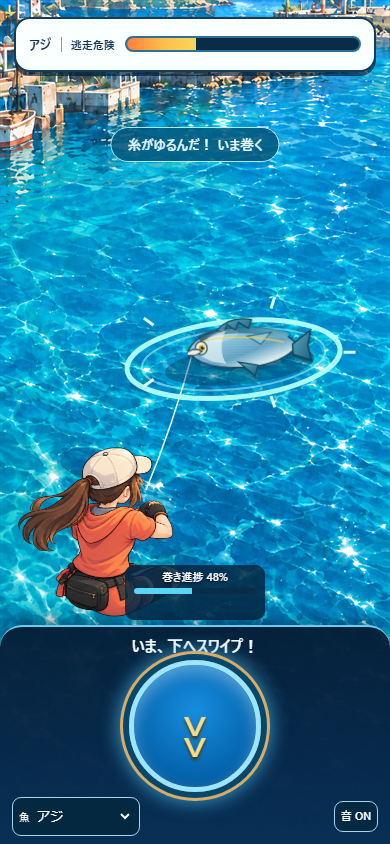
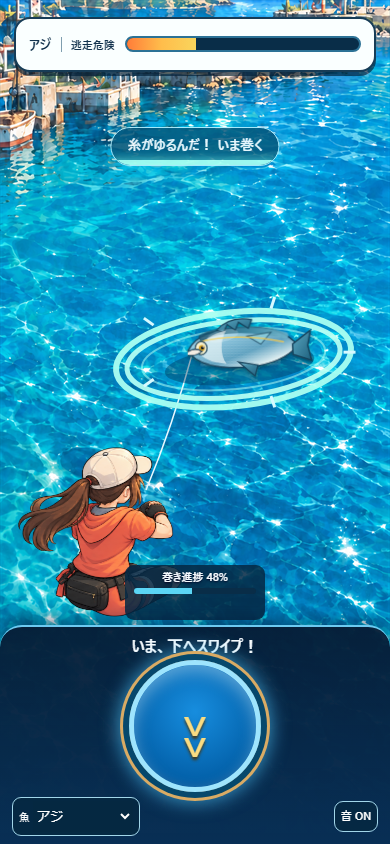
Show the real warning and reel opening timing

diff --git a/fishing-battle/game.js b/fishing-battle/game.js
@@ -1,6 +1,6 @@
 import { FISH, battleCue, createBattle, reelBattle, stepBattle } from './core.js';
 import { BattleAudio } from './audio.js';
-import { battlePose, interactionFeedback, outcomePose } from './visual.js';
+import { battlePose, interactionFeedback, outcomePose, timingWindow } from './visual.js';
 
 const $ = id => document.getElementById(id);
 const board = document.querySelector('.board'), canvas = $('sea'), ctx = canvas.getContext('2d');
@@ -17,12 +17,14 @@ let outcomeAt = null;
 let started = false;
 let actions = { openingHits: 0, badReels: 0 }, actionUntil = 0;
 let previousCue = 'calm';
+let openingLatePlayed = false;
 let muted = (() => { try { return localStorage.getItem('fishing-battle-muted') === '1'; } catch { return false; } })();
 const sound = new BattleAudio(() => new (window.AudioContext || window.webkitAudioContext)());
 sound.setMuted(muted);
 
 function feedback(events) {
   for (const event of events) {
+    if (event === 'opening') openingLatePlayed = false;
     if ((event === 'caught' || event === 'escaped') && outcomeAt === null) {
       outcomeAt = performance.now();
       pointerStart = null;
@@ -41,6 +43,7 @@ function feedback(events) {
 }
 function syncUI() {
   const cue = battleCue(state), fish = FISH[state.fishId];
+  const timing = timingWindow(state, cue);
   const finishing = state.outcome && !reduced.matches && outcomeAt !== null && performance.now() - outcomeAt < (state.outcome === 'caught' ? 650 : 500);
   const critical = state.escape >= 70;
   if ($('fishName').textContent !== fish.name) $('fishName').textContent = fish.name;
@@ -52,7 +55,9 @@ function syncUI() {
   $('progressValue').textContent = `${Math.round(state.reel)}%`;
   $('cue').className = `cue ${finishing ? `finale-${state.outcome}` : cue}`;
   const cueText = finishing ? state.outcome === 'caught' ? '引き寄せた！' : '離れていく…' : cue === 'rage' ? critical ? '逃げそう！ 手を止めて' : '魚が走った！ 手を止めて' : cue === 'opening' ? '糸がゆるんだ！ いま巻く' : cue === 'warning' ? '糸が張る… もうすぐ走る' : critical ? '逃げそう！ いま巻く' : '魚の動きを見よう';
-  if ($('cue').textContent !== cueText) $('cue').textContent = cueText;
+  if ($('cueText').textContent !== cueText) $('cueText').textContent = cueText;
+  $('timingFill').hidden = !timing || Boolean(finishing);
+  if (timing) $('timingFill').style.width = `${Math.round(timing.fraction * 100)}%`;
   document.querySelector('.controls').classList.toggle('is-raging', !finishing && cue === 'rage');
   $('rageLabel').hidden = finishing || cue !== 'rage';
   const hint = finishing ? state.outcome === 'caught' ? '水面へ！' : '届かなかった…' : cue === 'rage' ? '暴れが収まるまで待とう' : cue === 'warning' ? '走りそう。指を止めよう' : pointerPull >= 34 ? '離して巻く！' : pointerPull > 8 ? '下へ引いて、離す' : cue === 'opening' ? 'いま、下へスワイプ！' : '下へスワイプして巻く';
@@ -116,7 +121,7 @@ document.addEventListener('keydown', e => {
   if (e.code !== 'Space' || e.repeat || !$('result').hidden || ['SELECT', 'BUTTON'].includes(document.activeElement?.tagName)) return;
   e.preventDefault(); reel();
 });
-function restart() { sound.reset(); setPull(0); state = createBattle($('fish').value, Date.now()); outcomeAt = null; flash = 0; impact = ''; started = false; actions = { openingHits: 0, badReels: 0 }; previousCue = 'calm'; $('action').textContent = ''; $('result').hidden = true; syncUI(); }
+function restart() { sound.reset(); setPull(0); state = createBattle($('fish').value, Date.now()); outcomeAt = null; flash = 0; impact = ''; started = false; actions = { openingHits: 0, badReels: 0 }; previousCue = 'calm'; openingLatePlayed = false; $('action').textContent = ''; $('result').hidden = true; syncUI(); }
 $('retry').addEventListener('click', restart);
 $('fish').addEventListener('change', restart);
 $('reel').addEventListener('click', e => { if (e.detail === 0) reel(); });
@@ -157,6 +162,15 @@ function draw(now) {
     ctx.globalAlpha = waterAlpha * .52; ctx.lineWidth = 2;
     ctx.beginPath(); ctx.ellipse(fishX + 60, fishY + 55, pose.ringWidth - 15, pose.ringHeight - 8, -.1, 0, Math.PI * 2); ctx.stroke();
   }
+  const timing = timingWindow(state, cue);
+  if (timing && timing.fraction > 0) {
+    ctx.globalAlpha = waterAlpha * .95;
+    ctx.strokeStyle = timing.kind === 'warning' ? '#ffc17e' : '#a9fff1';
+    ctx.lineWidth = 6;
+    ctx.beginPath();
+    ctx.ellipse(fishX + 60, fishY + 55, pose.ringWidth + 11, pose.ringHeight + 9, -.1, -Math.PI / 2, -Math.PI / 2 + Math.PI * 2 * timing.fraction);
+    ctx.stroke();
+  }
   ctx.globalAlpha = 1;
   ctx.save(); ctx.globalAlpha = fish.alpha; ctx.translate(fish.fishX + 70, fish.fishY + 40); ctx.rotate(fish.angle); ctx.scale(fish.scale, fish.scale);
   drawImage(`fish_hero_${state.fishId}`, -70, -40, 140, 80); ctx.restore();
@@ -186,6 +200,11 @@ function draw(now) {
     stepBattle(state, dt);
     if (state.events.length) { feedback(state.events); state.events = []; }
     const nextCue = battleCue(state);
+    const nextTiming = timingWindow(state, nextCue);
+    if (nextTiming?.kind === 'opening' && nextTiming.fraction <= .35 && !openingLatePlayed) {
+      openingLatePlayed = true;
+      feedback(['openingLate']);
+    }
     if (pointerPull > 8 && (nextCue !== previousCue || state.escape !== previousEscape)) setPull(pointerPull);
     if (nextCue === 'warning' && previousCue !== 'warning') feedback(['warning']);
     previousCue = nextCue;

diff --git a/fishing-battle/index.html b/fishing-battle/index.html
@@ -4,7 +4,7 @@
   <canvas id="sea" aria-hidden="true"></canvas>
   <div class="top"><span class="fish-name" id="fishName">アジ</span><strong id="dangerLabel">逃走危険</strong><div class="track danger" id="danger" role="progressbar" aria-label="魚の逃走危険度" aria-valuemin="0" aria-valuemax="100" aria-valuenow="14"><i id="dangerFill"></i></div></div>
   <div class="progress" aria-label="巻き進捗">巻き進捗 <b id="progressValue">48%</b><div class="track"><i id="progressFill"></i></div><span id="action" aria-live="polite"></span></div>
-  <div class="cue" id="cue" role="status" aria-live="polite">魚の動きを見よう</div>
+  <div class="cue" id="cue" role="status" aria-live="polite"><span id="cueText">魚の動きを見よう</span><span id="timingFill" aria-hidden="true" hidden></span></div>
   <div class="result" id="result" hidden><img id="resultFish" alt="" hidden><h1 id="resultTitle"></h1><p id="resultText"></p><button id="retry">もう一度</button></div>
   <div class="controls"><p id="hint">タイミングよく下へスワイプ</p><button id="reel" type="button" aria-label="巻く。タップまたは下へスワイプ"><span aria-hidden="true">⌄<br>⌄</span></button><div id="rageLabel" hidden>魚が暴れてる！ 今は待つ</div></div>
   <div class="settings"><label>魚 <select id="fish"><option value="aji">アジ</option><option value="tai">マダイ</option><option value="bass">ブラックバス</option><option value="buri">ブリ</option><option value="saba">サバ</option><option value="isaki">イサキ</option><option value="hirame">ヒラメ</option><option value="kanpachi">カンパチ</option><option value="kue">クエ</option></select></label><button id="mute" type="button" aria-pressed="false">音 ON</button></div>

diff --git a/fishing-battle/style.css b/fishing-battle/style.css
@@ -5,3 +5,4 @@
 @media(min-height:701px){.controls p{margin:8px 0 4px}#reel{width:min(34vw,136px);height:min(34vw,136px)}}@media(max-height:700px){.controls.is-pulling #reel{transform:translateY(-4px) scale(.94)}}
 .cue.finale-caught{background:#075f65f0;border-color:#c9ffe8;box-shadow:0 0 22px #86ffe77a}.cue.finale-escaped{background:#713738ef;border-color:#ffc7b4}
 .controls.is-pulling #reel{box-shadow:0 0 0 6px #06486c,0 0 0 9px #d9ab64,0 0 var(--glow-size,18px) 15px var(--pull-glow,#8de7ff),inset 0 7px 16px #c1ebff70}.controls.is-pulling #hint{color:var(--pull-glow,#bcfff2)}
+.cue{overflow:hidden;padding-bottom:11px}.cue #timingFill{position:absolute;left:0;bottom:0;height:5px;background:#a9fff1;box-shadow:0 0 10px #75f9e9}.cue.warning #timingFill{background:#ffd18a;box-shadow:0 0 10px #ffd18a}.cue #timingFill[hidden]{display:none}

diff --git a/fishing-battle/visual.js b/fishing-battle/visual.js
@@ -16,6 +16,13 @@ export function interactionFeedback(state, pull) {
   };
 }
 
+export function timingWindow(state, cue) {
+  if (state.outcome) return null;
+  if (cue === 'warning') return { kind: 'warning', fraction: clamp(1 - (state.phaseUntil - state.time) / .65, 0, 1) };
+  if (cue === 'opening') return { kind: 'opening', fraction: clamp((state.openingUntil - state.time) / FISH[state.fishId].opening, 0, 1) };
+  return null;
+}
+
 // Canvas-space pose. Visual pull and recoil never change the battle state.
 export function battlePose(state, cue, seconds, { reduced = false, pull = 0, tension = interactionFeedback(state, pull).tension, impact = '', flash = 0 } = {}) {
   const fish = FISH[state.fishId];

diff --git a/fishing-battle/audio.js b/fishing-battle/audio.js
@@ -119,6 +119,7 @@ export class BattleAudio {
       case 'warning': return this.note(340, 210, .27, 'triangle', .026);
       case 'rage': return this.note(165, 95, .36, 'sawtooth', .035);
       case 'opening': return this.note(420, 680, .23, 'sine', .04);
+      case 'openingLate': return this.note(690, 820, .1, 'sine', .025);
       case 'goodReel': return this.note(330, 430, .12, 'triangle', .028);
       case 'goodOpening': return this.note(510, 740, .19, 'sine', .045);
       case 'badReel': return this.note(150, 82, .25, 'sawtooth', .05);
